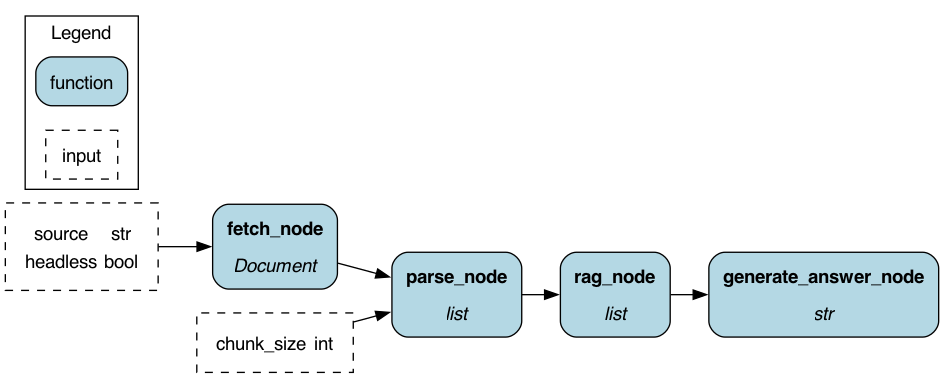
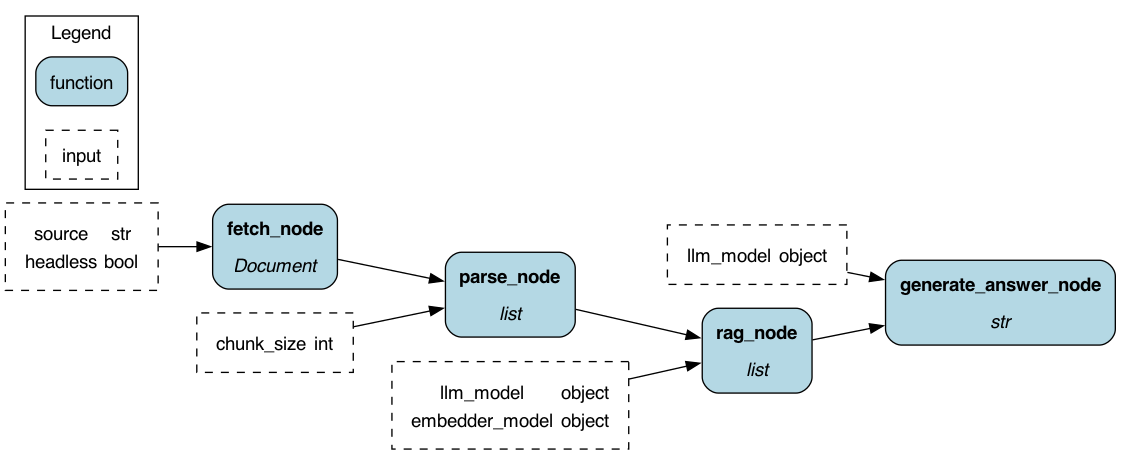
WIP

diff --git a/scrapegraphai/graphs/smart_scraper_graph_hamilton.py b/scrapegraphai/graphs/smart_scraper_graph_hamilton.py
@@ -35,10 +35,10 @@ def parse_node(fetch_node: Document, chunk_size: int) -> list[Document]:
 
     pass
 
-def rag_node(parse_node: list[Document]) -> list[Document]:
+def rag_node(parse_node: list[Document], llm_model: object, embedder_model: object) -> list[Document]:
     pass
 
-def generate_answer_node(rag_node: list[Document]) -> str:
+def generate_answer_node(rag_node: list[Document], llm_model: object) -> str:
     pass
 
 
